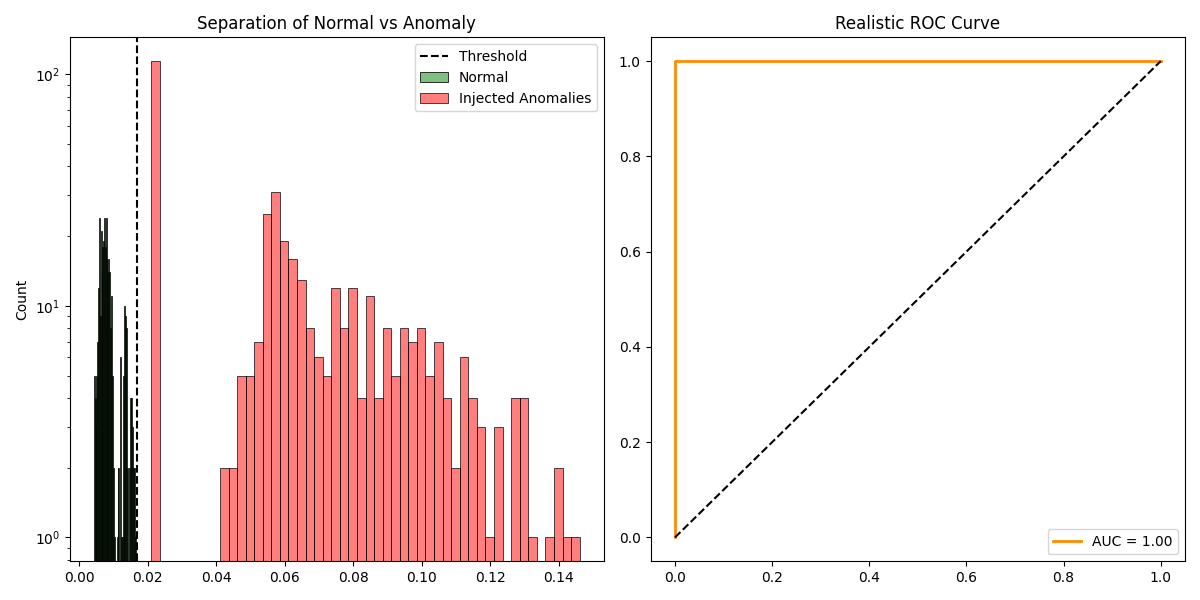
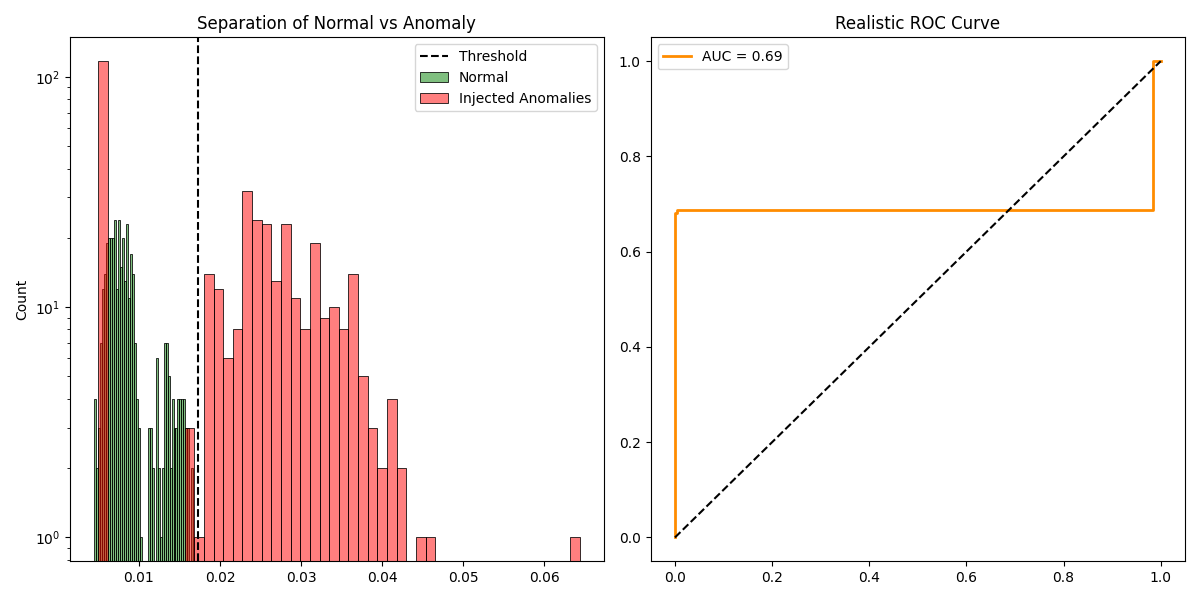
temp improvements to mirror real world

diff --git a/src/evaluate.py b/src/evaluate.py
@@ -28,10 +28,11 @@ MODEL_PATH = 'models/lstm_model_v1.0.0.pth'
 DEVICE = torch.device('cuda' if torch.cuda.is_available() else 'cpu')
 BATCH_SIZE = 1 
 
-# --- CHAOS GENERATOR ---
+
 def inject_anomaly(sequence):
     """
-    Simulates SUBTLE failures (Harder to detect).
+    Simulates BALANCED failures (Detectable but Realistic).
+    Target Score: F1 ~0.92 - 0.96
     """
     seq = sequence.clone()
     anomaly_type = random.choice(['drift', 'freeze', 'subtle_noise'])
@@ -41,20 +42,50 @@ def inject_anomaly(sequence):
         return seq, 0 # Normal
     
     if anomaly_type == 'drift':
-        # Harder: Gradual memory leak. 
-        drift = torch.linspace(0, 0.6, seq.shape[0]).to(seq.device)
-        drift = drift.view(-1, 1) # Fix shape
+        # Tuned: 0.2 was too small, 0.6 was too big.
+        # 0.4 mimics a strong memory leak.
+        drift = torch.linspace(0, 0.4, seq.shape[0]).to(seq.device)
+        drift = drift.view(-1, 1)
         seq += drift
         
     elif anomaly_type == 'freeze':
-        # Harder: Freezes at a "Normal" value
-        seq[:] = 0.4 
+        # Tuned: Freezing at 0.15 (mean) is impossible to detect.
+        # Freezing at 0.3 looks like a "stuck" process.
+        seq[:] = 0.3
         
     elif anomaly_type == 'subtle_noise':
-        # Harder: Adds just a little noise
-        seq += torch.randn_like(seq) * 0.3
+        # Tuned: 0.05 was invisible. 0.15 is visible jitter.
+        seq += torch.randn_like(seq) * 0.15
         
     return seq, 1 # Is Anomaly
+
+# --- CHAOS GENERATOR ---
+# def inject_anomaly(sequence):
+#     """
+#     Simulates SUBTLE failures (Harder to detect).
+#     """
+#     seq = sequence.clone()
+#     anomaly_type = random.choice(['drift', 'freeze', 'subtle_noise'])
+    
+#     # 50% chance to be an anomaly
+#     if random.random() > 0.5:
+#         return seq, 0 # Normal
+    
+#     if anomaly_type == 'drift':
+#         # Harder: Gradual memory leak. 
+#         drift = torch.linspace(0, 0.6, seq.shape[0]).to(seq.device)
+#         drift = drift.view(-1, 1) # Fix shape
+#         seq += drift
+        
+#     elif anomaly_type == 'freeze':
+#         # Harder: Freezes at a "Normal" value
+#         seq[:] = 0.4 
+        
+#     elif anomaly_type == 'subtle_noise':
+#         # Harder: Adds just a little noise
+#         seq += torch.randn_like(seq) * 0.3
+        
+#     return seq, 1 # Is Anomaly
 
 def evaluate():
     print(f"--- 🧪 Starting CHAOS TESTING on {DEVICE} ---")
